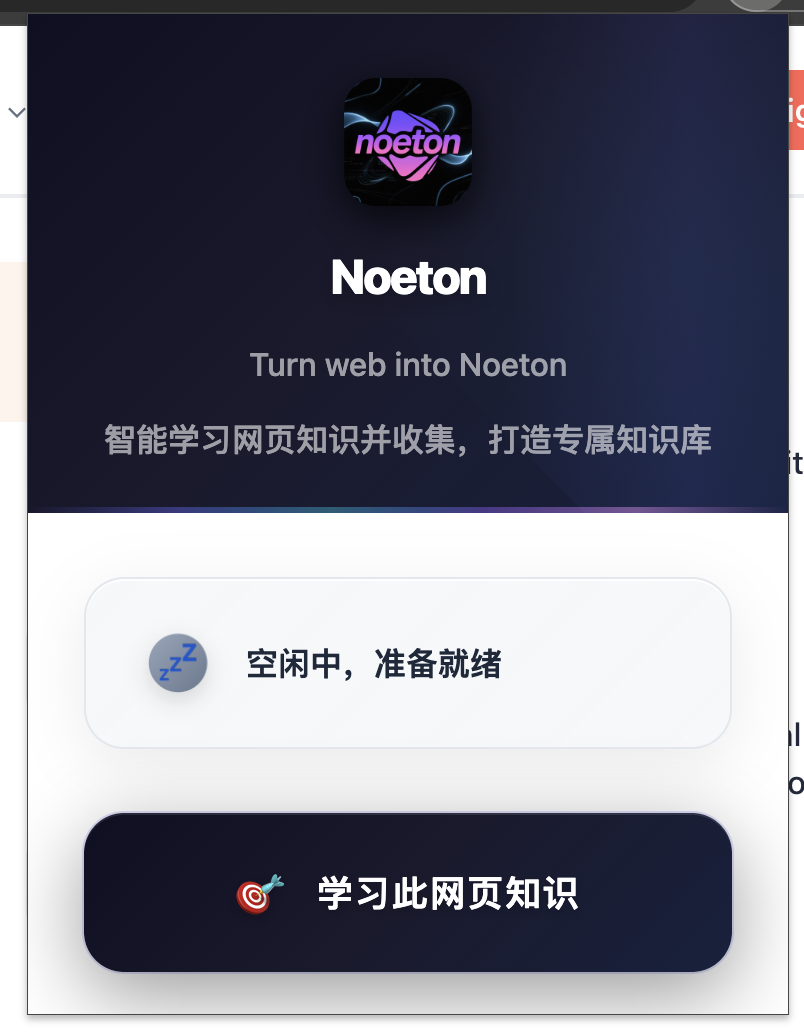
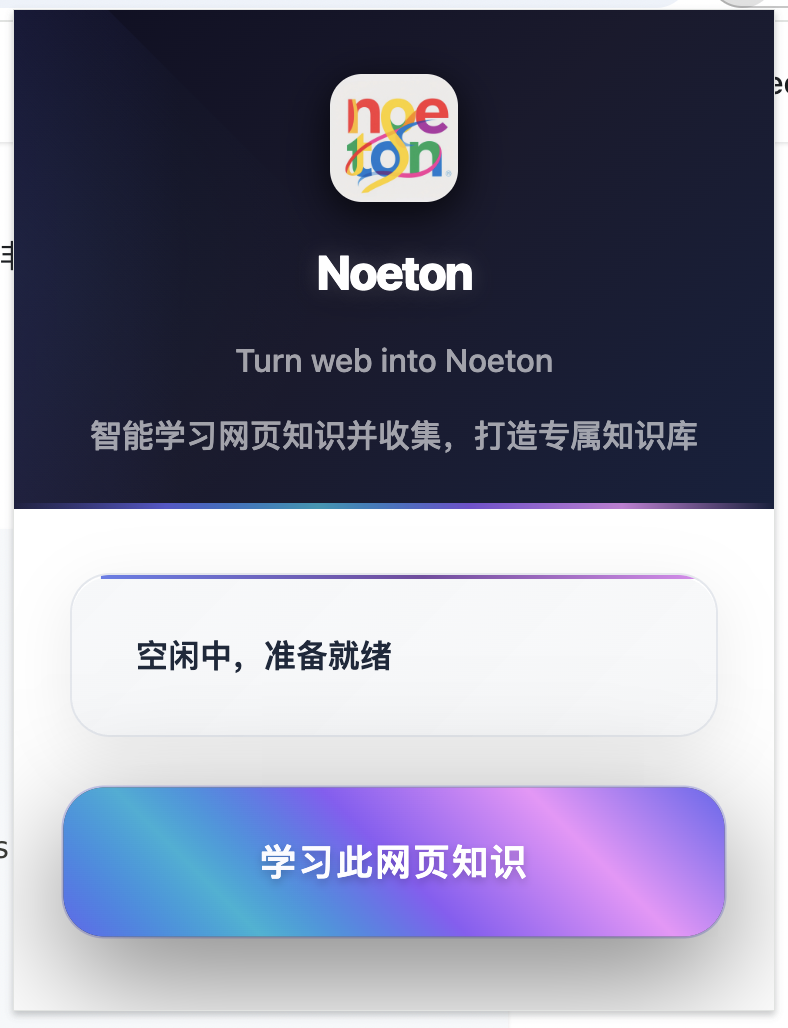
更新主题及readme

diff --git a/src/popup/PopupApp.tsx b/src/popup/PopupApp.tsx
@@ -14,7 +14,6 @@ const FeatureCard: React.FC<{
       className={`feature-card ${isActive ? 'active' : ''}`}
       onClick={onClick}
     >
-      <span className="feature-icon">{icon}</span>
       <div className="feature-title">{title}</div>
       <div className="feature-desc">{description}</div>
     </div>
@@ -34,9 +33,6 @@ const LearningButton: React.FC<{
       disabled={disabled}
     >
       <div className="button-border"></div>
-      <span className="button-icon">
-        {isScanning ? '🔍' : '🎯'}
-      </span>
       <span className="button-text">
         {isScanning ? '正在扫描...' : disabled ? '正在学习中...' : '学习此网页知识'}
       </span>
@@ -51,13 +47,10 @@ const StatusDisplay: React.FC<{ status: LearningStatus; message: string }> = ({ 
     <div className={`status-display ${status}`}>
       {status === LearningStatus.IDLE && (
         <>
-          <span className="status-icon idle">💤</span>
           <span className="status-message">空闲中，准备就绪</span>
         </>
       )}
       {status === LearningStatus.LEARNING && <div className="status-spinner"></div>}
-      {status === LearningStatus.COMPLETED && <span className="status-icon success">✓</span>}
-      {status === LearningStatus.ERROR && <span className="status-icon error">✗</span>}
       {status !== LearningStatus.IDLE && <span className="status-message">{message}</span>}
     </div>
   );

diff --git a/README.md b/README.md
@@ -1,6 +1,8 @@
-# 网页学习助手 - Chrome浏览器插件
 
-一个智能的Chrome浏览器插件，用于提取网页内容并进行学习分析。支持自动提取网页中的文本和图片，去除无用元素，并将处理后的内容发送到指定的API接口。
+# Noeton 网页学习助手（Chrome 插件）
+
+> **Slogan:**  
+> **Turn web into Noeton —— 让网页成为你的理念世界**
 
 ## 封面
 
@@ -15,110 +17,74 @@
 - 📱 **响应式设计**: 适配不同屏幕尺寸
 - 🔄 **实时状态**: 实时显示学习进度和状态
 
-## 技术栈
+## 一、项目愿景与未来畅想
 
-- **TypeScript**: 类型安全的JavaScript
-- **React**: 现代化的UI框架
-- **Less**: CSS预处理器
-- **Webpack**: 模块打包工具
-- **Chrome Extension API**: 浏览器插件开发
+Noeton 致力于打造“个人理念世界”的知识采集与管理平台。我们相信，互联网浩如烟海的信息，只有经过结构化、语义化的提炼，才能真正转化为属于每个人的知识体系。未来，Noeton 不仅是网页内容的采集工具，更是你认知升华、知识沉淀的智能伴侣：
 
-## 项目结构
+- **全端知识库生态**：网页采集、AI整理、内容持久化、跨端同步，构建专属的个人知识宇宙。
+- **多源内容深度还原**：无论是飞书知识库、技术文档、还是通用网页，均能最大程度还原原貌，结构化存储。
+- **AI驱动的知识升华**：结合大模型（如 DeepSeek），自动总结、归纳、生成高质量 Markdown，助力知识内化。
+- **媒体资源智能转存**：图片、代码、表格等富媒体内容一并采集，保障知识的完整性与可用性。
+- **理念世界的可视化**：未来将支持知识网络、概念地图等可视化工具，帮助用户洞见知识间的深层联系。
+
+## 二、主题与背景
+
+在信息爆炸的时代，知识的获取不再是难题，难的是如何将碎片化的信息转化为系统化的认知。Noeton 以柏拉图“可理知世界（Noeton Cosmos）”为灵感，强调“从表象到本质”的认知升华。我们希望通过 AI 和现代前端技术，帮助用户将网页上的信息转化为结构化、可检索、可沉淀的个人知识库。
+
+## 三、命名来源
+
+1. 词源与哲学根基
+“Noeton” 源自希腊语 “Νοητόν”，是柏拉图哲学体系中 “可理知世界”（Noeton Cosmos）的核心概念。在柏拉图的 “洞穴寓言” 中，“可理知世界” 代表超越感官表象的终极真实 —— 即通过理性（Nous）思考才能触及的 “理念世界”（如正义、美、善的抽象本质）。这一概念强调：知识并非碎片化信息的堆砌，而是通过理性归纳形成的系统化认知结构，与产品 “将网页信息转化为个人知识库” 的功能逻辑高度契合。
+2. 与产品功能的隐喻关联
+“从表象到本质” 的转化：AI 如同哲学中的 “理性之光”，将网页上的具象信息（文字、图片、数据）提炼为抽象的知识框架（如分类、逻辑链、概念网络），对应柏拉图 “从可见世界（Horaton）到可理知世界（Noeton）” 的认知升华。
+“理念世界” 的个人化构建：每个用户的知识库都是独一无二的 “理念集合”，AI 通过收集、整理、关联信息，帮助用户构建专属于自己的 “知识理念王国”，呼应柏拉图对 “真知” 的追求。
+
+## 四、核心功能亮点
+
+### 1. 飞书知识库文档深度还原
+
+- **专属解析协议**：针对飞书知识库，插件会自动识别并按飞书官方 block 协议解析文档结构，最大程度还原原始排版、层级、富媒体内容。
+- **结构化存储**：每个 block 作为独立单元存储，便于后续检索、编辑和知识网络构建。
+- **高保真 Markdown 输出**：最终生成的 Markdown 文档，尽可能还原飞书原貌，适配个人知识库客户端的展示需求。
+
+### 2. 技术文档与媒体资源智能采集
+
+- **媒体资源转存**：对于市面上常见的技术文档（如 API 文档、博客等），由于版权和授权限制，插件会在前端自动提取 `<img>` 标签资源，通过 Canvas 绘制转存至 CDN，确保图片等媒体内容的可用性和合规性。
+- **Markdown 拼装**：所有文本、图片、代码块等内容，最终拼装为高质量 Markdown，便于后续管理和二次创作。
+
+### 3. 通用网页内容智能脱水与总结
+
+- **HTML 脱水清洗**：对其他通用网页，插件会自动去除广告、导航、脚本等无关元素，仅保留核心内容。
+- **AI 深度总结**：结合 DeepSeek 等大模型，对提取内容进行语义理解、结构化整理和自动摘要，输出精炼的 Markdown 笔记。
+- **知识持久化**：所有 Markdown 文档通过 HTTP 服务持久化存储，自动同步到个人知识库客户端，随时随地查阅和管理。
+
+## 五、技术架构与项目结构
+
+- **TypeScript + React**：现代化前端开发，类型安全与高效 UI 体验兼得。
+- **Chrome Extension API**：深度集成浏览器能力，实现内容采集与交互。
+- **Less + Webpack**：灵活的样式与构建体系。
+- **模块化设计**：Popup、Content Script、Background、Utils、Types 分层清晰，便于扩展和维护。
 
 ```
 web_capture_vault/
 ├── src/
-│   ├── popup/              # Popup界面相关
-│   │   ├── components/     # React组件
-│   │   ├── index.tsx       # Popup入口
-│   │   └── popup.less      # Popup样式
-│   ├── background/         # Background脚本
-│   │   └── index.ts        # 后台服务
-│   ├── content/            # Content脚本
-│   │   ├── index.ts        # 页面交互逻辑
-│   │   └── content.css     # 蒙层样式
-│   ├── utils/              # 工具类
-│   │   ├── htmlProcessor.ts # HTML处理工具
-│   │   └── apiService.ts   # API服务
-│   └── types/              # TypeScript类型定义
-│       ├── index.ts        # 主要类型
-│       └── chrome.d.ts     # Chrome API类型
+│   ├── popup/              # Popup界面
+│   ├── background/         # 后台服务
+│   ├── content/            # 页面内容采集与交互
+│   ├── utils/              # HTML处理、API服务
+│   └── types/              # 类型定义
 ├── icons/                  # 插件图标
-├── manifest.json           # 插件配置文件
-├── popup.html              # Popup HTML模板
-├── package.json            # 项目依赖
+├── manifest.json           # 插件配置
+├── popup.html              # Popup模板
+├── package.json            # 依赖管理
 ├── tsconfig.json           # TypeScript配置
-├── webpack.config.js       # Webpack配置
+├── webpack.config.js       # 构建配置
 └── README.md               # 项目文档
 ```
 
-## 安装和开发
+## 六、API 规范与数据流
 
-### 环境要求
-
-- Node.js 16+
-- npm 或 yarn
-
-### 安装依赖
-
-```bash
-npm install
-```
-
-### 开发模式
-
-```bash
-npm run dev
-```
-
-### 构建生产版本
-
-```bash
-npm run build
-```
-
-### 类型检查
-
-```bash
-npm run type-check
-```
-
-## 安装插件
-
-1. 构建项目：
-   ```bash
-   npm run build
-   ```
-
-2. 打开Chrome浏览器，进入扩展程序页面：
-   - 地址栏输入：`chrome://extensions/`
-   - 或者：菜单 → 更多工具 → 扩展程序
-
-3. 开启"开发者模式"
-
-4. 点击"加载已解压的扩展程序"，选择项目的根目录
-
-5. 插件安装完成，可以在工具栏看到插件图标
-
-## 使用方法
-
-### 基本使用
-
-1. 打开任意网页（如飞书文档、知乎文章等）
-2. 点击浏览器工具栏中的插件图标
-3. 在弹出的界面中点击"网页学习"按钮
-4. 插件会自动提取页面内容并发送到配置的API接口
-5. 页面会显示学习进度蒙层
-
-### 配置API
-
-1. 在插件弹窗中点击右上角的设置按钮（⚙）
-2. 输入API密钥和API地址
-3. 点击保存
-
-## API接口规范
-
-插件会向配置的API地址发送POST请求，数据格式如下：
+插件会将采集和整理后的内容，通过 POST 请求发送到配置的 API 服务，数据格式如下：
 
 ```json
 {
@@ -137,7 +103,7 @@ npm run type-check
 }
 ```
 
-### API响应格式
+API 响应格式：
 
 ```json
 {
@@ -149,73 +115,35 @@ npm run type-check
 }
 ```
 
-## 配置说明
+## 七、安装与使用
 
-### manifest.json
+1. `npm install` 安装依赖
+2. `npm run build` 构建生产版本
+3. 在 Chrome 扩展页面加载已解压的扩展程序
+4. 点击插件图标，配置 API 地址和密钥
+5. 打开任意网页，点击“网页学习”按钮，内容即会自动采集、整理并存储到你的知识库
 
-- `permissions`: 插件权限配置
-- `host_permissions`: 允许访问的网站
-- `content_scripts`: 注入到页面的脚本
-- `background`: 后台服务脚本
+## 八、品牌视觉与哲学
 
-### 自定义配置
+- **Logo 灵感**：正十二面体、理性之光、洞穴寓言，融合古典哲学与现代科技。
+- **色彩体系**：深空灰、雅典蓝、科技青，象征理性、智慧与创新。
+- **理念延展**：每一次网页采集，都是一次“从表象到本质”的知识升华。
 
-在 `src/utils/apiService.ts` 中可以修改：
-- 默认API地址
-- API端点配置
-- 请求头设置
+## 九、未来展望
 
-## 开发指南
+- **知识网络可视化**：支持知识点自动关联、概念地图生成
+- **多端同步**：桌面、移动、Web 客户端无缝协作
+- **AI 智能问答**：基于个人知识库的语义检索与对话
+- **开放生态**：支持插件扩展、第三方 API 集成
 
-### 添加新功能
+---
 
-1. 在 `src/types/index.ts` 中定义相关类型
-2. 在对应的模块中实现功能
-3. 更新组件和样式
-4. 测试功能
+> **Noeton —— 让每一次网页浏览，都成为理念世界的构建之旅。**
 
-### 调试技巧
+---
 
-- 使用Chrome开发者工具查看Console输出
-- Background脚本的日志在扩展程序页面的"检查视图"中查看
-- Content脚本的日志在页面开发者工具中查看
+如需详细开发文档、API 说明或品牌设计方案，请参见项目内相关文件或联系我们。
 
-## 常见问题
+---
 
-### Q: 插件无法正常工作？
-A: 检查以下几点：
-- 确保已正确安装插件
-- 检查API配置是否正确
-- 查看浏览器控制台是否有错误信息
-
-### Q: 内容提取不完整？
-A: 某些网站可能使用了动态加载或特殊结构，可以：
-- 等待页面完全加载后再使用插件
-- 检查网站是否有反爬虫机制
-
-### Q: API请求失败？
-A: 检查：
-- API地址是否正确
-- API密钥是否有效
-- 网络连接是否正常
-- API服务器是否正常运行
-
-## 贡献指南
-
-1. Fork 项目
-2. 创建功能分支
-3. 提交更改
-4. 推送到分支
-5. 创建 Pull Request
-
-## 许可证
-
-MIT License
-
-## 更新日志
-
-### v1.0.0
-- 初始版本发布
-- 支持基本的网页内容提取
-- 实现Popup界面和蒙层效果
-- 支持API配置和状态显示
+如果需要进一步细化某一部分（如飞书 block 解析的技术细节、API 设计、品牌故事等），请告知！
